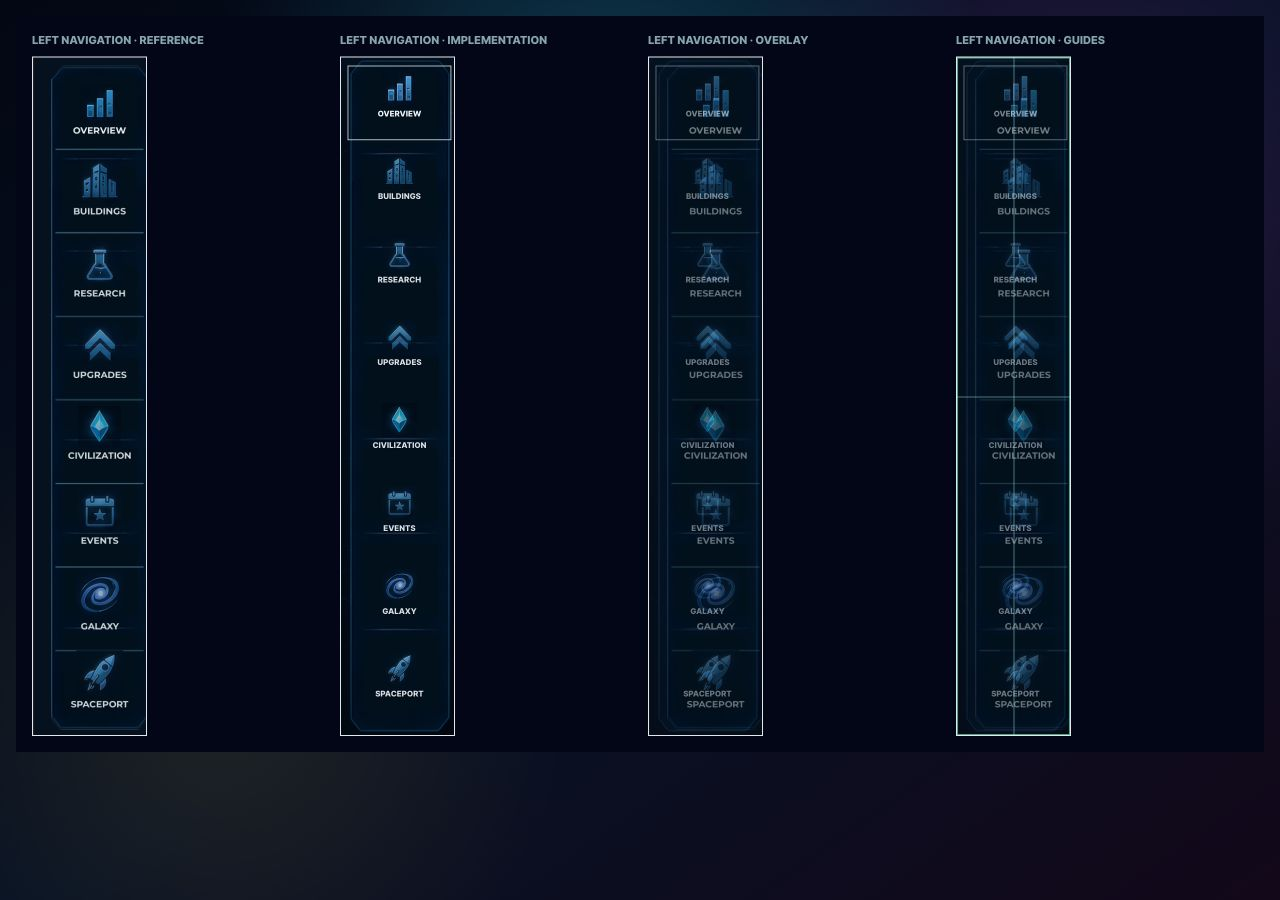
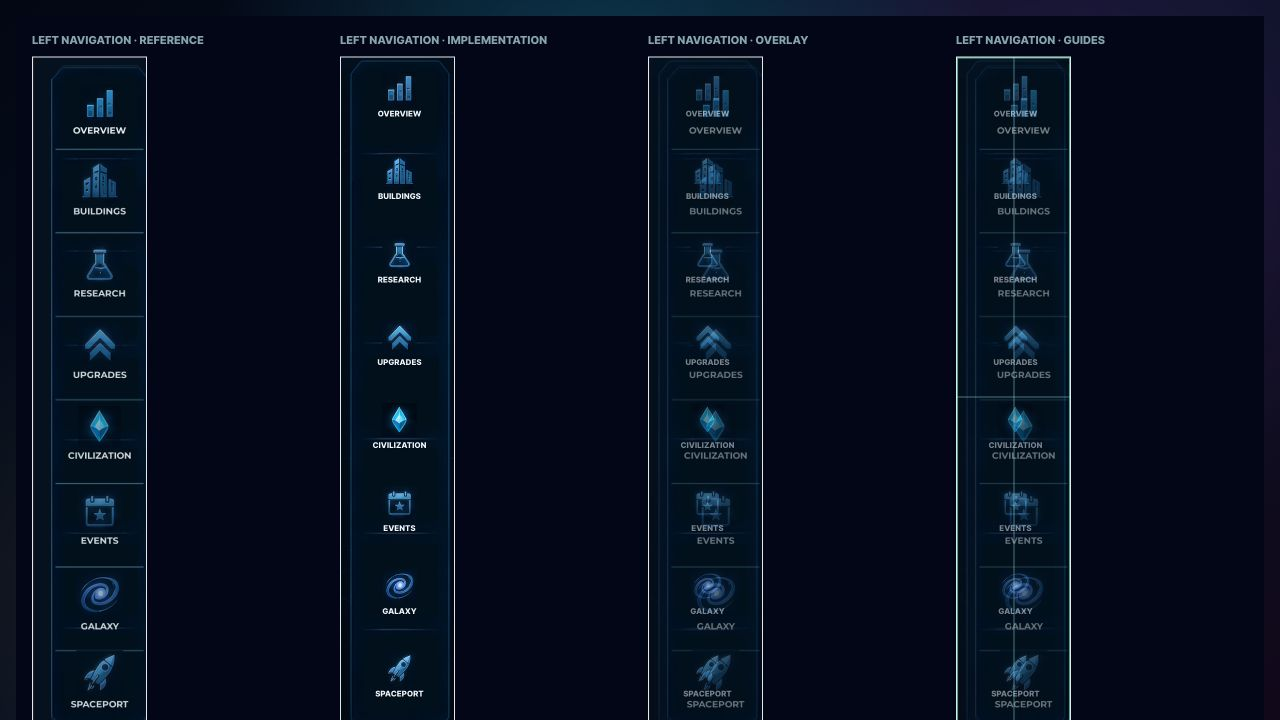
Remove non-source nav active chrome

diff --git a/src/components/game-ui/genesis-ui.tsx b/src/components/game-ui/genesis-ui.tsx
@@ -1166,7 +1166,6 @@ export function RobloxNavigation({ active, art }: { active: string; art: Dashboa
     journal: "spaceport"
   };
   const current = activeMap[active] ?? active;
-  const activeIndex = robloxNavItems.findIndex((item) => item.id === current);
 
   return (
     <nav className="relative h-full w-full overflow-hidden" data-testid="roblox-integrated-nav-hud" data-dom-model="single-hud-image-with-absolute-overlays">
@@ -1185,20 +1184,6 @@ export function RobloxNavigation({ active, art }: { active: string; art: Dashboa
           className="pointer-events-none absolute inset-0 z-0 h-full w-full object-fill"
         />
       ) : <DashboardMissingArt art={art.dashboard_nav_background} className="absolute inset-0" />}
-      {activeIndex >= 0 ? (
-        <div
-          aria-hidden="true"
-          data-testid="roblox-nav-active-frame"
-          data-active-for={current}
-          className="pointer-events-none absolute z-10 bg-cyan-300/8 outline outline-1 -outline-offset-1 outline-cyan-100/58"
-          style={{
-            left: ROBLOX_NAV_GEOMETRY.paddingX,
-            top: robloxNavItemTop(activeIndex),
-            width: ROBLOX_NAV_GEOMETRY.itemWidth,
-            height: ROBLOX_NAV_GEOMETRY.itemHeight
-          }}
-        />
-      ) : null}
       {robloxNavItems.map((item, index) => {
         const Icon = item.icon;
         const isActive = item.id === current;
@@ -1209,15 +1194,15 @@ export function RobloxNavigation({ active, art }: { active: string; art: Dashboa
           top: itemTop + ROBLOX_NAV_GEOMETRY.iconTop,
           width: ROBLOX_NAV_GEOMETRY.iconWidth,
           height: ROBLOX_NAV_GEOMETRY.iconHeight,
-          opacity: isActive ? 1 : 0.72,
-          filter: isActive ? "brightness(1.08)" : "none"
+          opacity: 1,
+          filter: "none"
         };
         const labelStyle = {
           left: ROBLOX_NAV_GEOMETRY.paddingX + ROBLOX_NAV_GEOMETRY.labelLeft,
           top: itemTop + ROBLOX_NAV_GEOMETRY.labelTop,
           width: ROBLOX_NAV_GEOMETRY.labelWidth,
           height: ROBLOX_NAV_GEOMETRY.labelHeight,
-          opacity: isActive ? 1 : 0.9
+          opacity: 1
         };
         return (
           <Fragment key={item.id}>

diff --git a/src/test/left-column-geometry.test.tsx b/src/test/left-column-geometry.test.tsx
@@ -78,7 +78,7 @@ describe("Roblox left column geometry", () => {
     expect(screen.getByTestId("roblox-nav-item-dashboard").querySelector("img, span, svg")).toBeNull();
     expect(screen.getAllByTestId(/roblox-nav-icon-/)).toHaveLength(8);
     expect(screen.getAllByTestId(/roblox-nav-label-/)).toHaveLength(8);
-    expect(screen.getAllByTestId("roblox-nav-active-frame")).toHaveLength(1);
+    expect(screen.queryByTestId("roblox-nav-active-frame")).toBeNull();
   });
 
   it("does not draw separate bordered cards around inactive nav hit targets", async () => {

diff --git a/docs/roblox-hud-asset-fidelity-v7.md b/docs/roblox-hud-asset-fidelity-v7.md
@@ -63,7 +63,7 @@ Source of truth:
 
 | Area | Missing/Generated item | Current handling |
 | --- | --- | --- |
-| Left navigation item states | Individual active/inactive item backgrounds are runtime-created Rojo frames, not exported bitmaps | Active state uses a restrained overlay; inactive state is transparent over the rail art |
+| Left navigation item states | Individual active/inactive item backgrounds are runtime-created Rojo frames, not exported bitmaps | No CSS active or inactive frame is rendered; hit targets are transparent over the rail art until exact state art is exported |
 | Help icons | Rojo uses text/generated help treatment | Vite keeps a semantic fallback button unless a future exported bitmap appears |
 | Boost drawer and launcher | No exact exported drawer/launcher background found in manifest | Vite preserves the Roblox-style generated bottom drawer until source art is exported |
 | Click interface generic circle | Manifest key exists without local source or native size | Vite uses the resolved ring layers that do have web-compatible files |